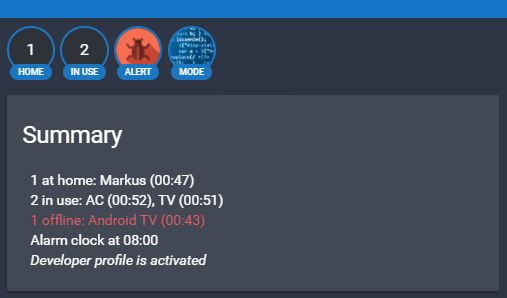
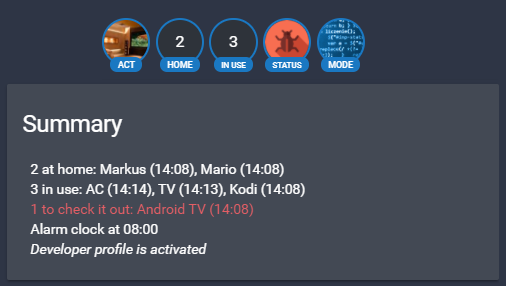
Summary updates

diff --git a/www/custom_ui/state-card-value_only.html b/www/custom_ui/state-card-value_only.html
@@ -54,7 +54,10 @@ Polymer({
   },
   
   computeStateDisplay: function (stateObj) {
-    return stateObj.state.split("\n");
+    var text = stateObj.attributes.text;
+    
+    if (text == null) { text = stateObj.state };
+    return text.split("\n");  
   },
   
   computeItem: function (item) {

diff --git a/python_scripts/summary.py b/python_scripts/summary.py
@@ -1,6 +1,6 @@
 ## Repo: https://github.com/maattdiy/home-assistant-config
 ## Screenshot: https://github.com/maattdiy/home-assistant-config/blob/master/screenshots/summary.png
-## Script call: https://github.com/maattdiy/home-assistant-config/blob/master/config/packages/ha_triggers.yaml#L39
+## Script call: https://github.com/maattdiy/home-assistant-config/blob/master/config/packages/summary.yaml
 
 ## Resources:
 ## https://home-assistant.io/components/python_script/
@@ -15,18 +15,22 @@ group_desc = ''
 summary = ''
 idx = 0
 
+if debug:
+    logger.error("\n\nSUMMARY: Start\n\n")
+
 ##################################################
 ## Groups summary (people and devices)
 ## Groups config: https://github.com/maattdiy/home-assistant-config/blob/master/config/groups.yaml#L267
 ##################################################
 
-# Entities summary by group name
+# Summary by groups
 groups = ['group.family', 'group.devices_default', 'group.devices_alwayson']
-groups_format = ['{} at home: {}', '{} in use: {}', '!{} offline: {}']
-groups_filter = ['home', 'on|playing', 'off|not_home']
-groups_badge = ['Home', 'In use', 'Alert']
-groups_badge_pic = ['', '', 'bug']
-groups_desc = ['Nobody in home', '', '']
+groups_format = ['{} at home: {}', '{} in use: {}', '!{} to check it out: {}'] # Message prefix
+groups_filter = ['home', 'on|playing', 'off|not_home'] # Filter to list
+groups_badge = ['Home', 'In use', 'Status'] # Badge 'belt' (unit_of_measurement)
+groups_badge_pic = ['', '', 'ok|bug|critical'] # Pictures: none, on picure or a list of picture (in this case the picture position will match the count)
+groups_min_show = [1, 1, 0] # Mininum count to show
+groups_desc = ['', '', '']
 groups_count = [0, 0, 0]
 
 for group in groups:
@@ -50,8 +54,8 @@ for group in groups:
             group_desc = '{} {} ({}), '.format(group_desc, state.name, time)
     
     # Final format for this group
-    if (group_count > 0):
-        group_desc = groups_format[idx].format(group_count, group_desc[:-2])    
+    if (group_count >= groups_min_show[idx]):
+        group_desc = groups_format[idx].format(group_count, group_desc[:-2])
         groups_desc[idx] = group_desc
         groups_count[idx] = group_count
         
@@ -63,22 +67,36 @@ for group in groups:
 ##################################################
 
 idx = 0
+order = 2
 
 if show_badges:
     for badge in groups_badge:
         if (badge != ''):
             entity_id = 'sensor.{}_badge'.format(badge.replace(' ', '').lower());
-            hidden = False if (groups_count[idx] > 0 or debug) else True
+            hidden = False if (groups_count[idx] >= groups_min_show[idx] or debug) else True
             fname = groups_desc[idx] if debug else ' '
-            picture = '/local/badges/{}.png'.format(groups_badge_pic[idx].replace(' ', '').lower()) if (groups_badge_pic[idx] != '') else ''
+            picture = groups_badge_pic[idx].replace(' ', '').lower()
+            
+            # Check for picture X index/count
+            if (picture != ''):
+                list = picture.split('|')
+                if (len(list) in [1, groups_count[idx]]):
+                    picture = list[len(list)-1]
+                else:
+                    picture = list[groups_count[idx]]
+                
+                if (picture != ''):
+                    picture = '/local/badges/{}.png'.format(picture)
             
             hass.states.set(entity_id, groups_count[idx], {
               'friendly_name': fname,
               'unit_of_measurement': badge, 
               'entity_picture': picture,
-              'hidden': hidden
+              'hidden': hidden,
+              'order': order
             })
-            
+        
+        order = order + 1
         idx = idx + 1
 
 ##################################################
@@ -123,7 +141,8 @@ if (not state is None):
       'entity_picture':  '/local/profiles/{}.png'.format(state.state.replace(' ', '').lower()),
       'friendly_name': ' ',
       'unit_of_measurement': 'Mode',
-      'hidden': hidden
+      'hidden': hidden,
+      'order': order
     })
     
     if not hidden:
@@ -135,12 +154,13 @@ if (not state is None):
 ##################################################
 
 for group_desc in groups_desc:
-    if (group_desc != ''):
+    if (group_desc != '' and not group_desc.endswith(': ')):
         summary = '{}{}\n'.format(summary, group_desc)
 
 summary = '{}\n{}\n{}'.format(summary, alarms_desc, profile_desc)
 
 if show_card:
-    hass.states.set('sensor.summary', summary, {
-      'custom_ui_state_card': 'state-card-value_only'
+    hass.states.set('sensor.summary', '', {
+      'custom_ui_state_card': 'state-card-value_only',
+      'text': summary
     })

diff --git a/python_scripts/last_cmd.py b/python_scripts/last_cmd.py
@@ -15,7 +15,7 @@ time = "%02d:%02d" % (dt.hour, dt.minute)
 
 # Ignore some names
 msg = state.name
-if (msg == 'None') or (msg.startswith('Set ')):
+if (msg == 'None' or msg.startswith('Set ') or msg.find('HDMI')>0):
     msg = ''
 
 if (msg != '') :
